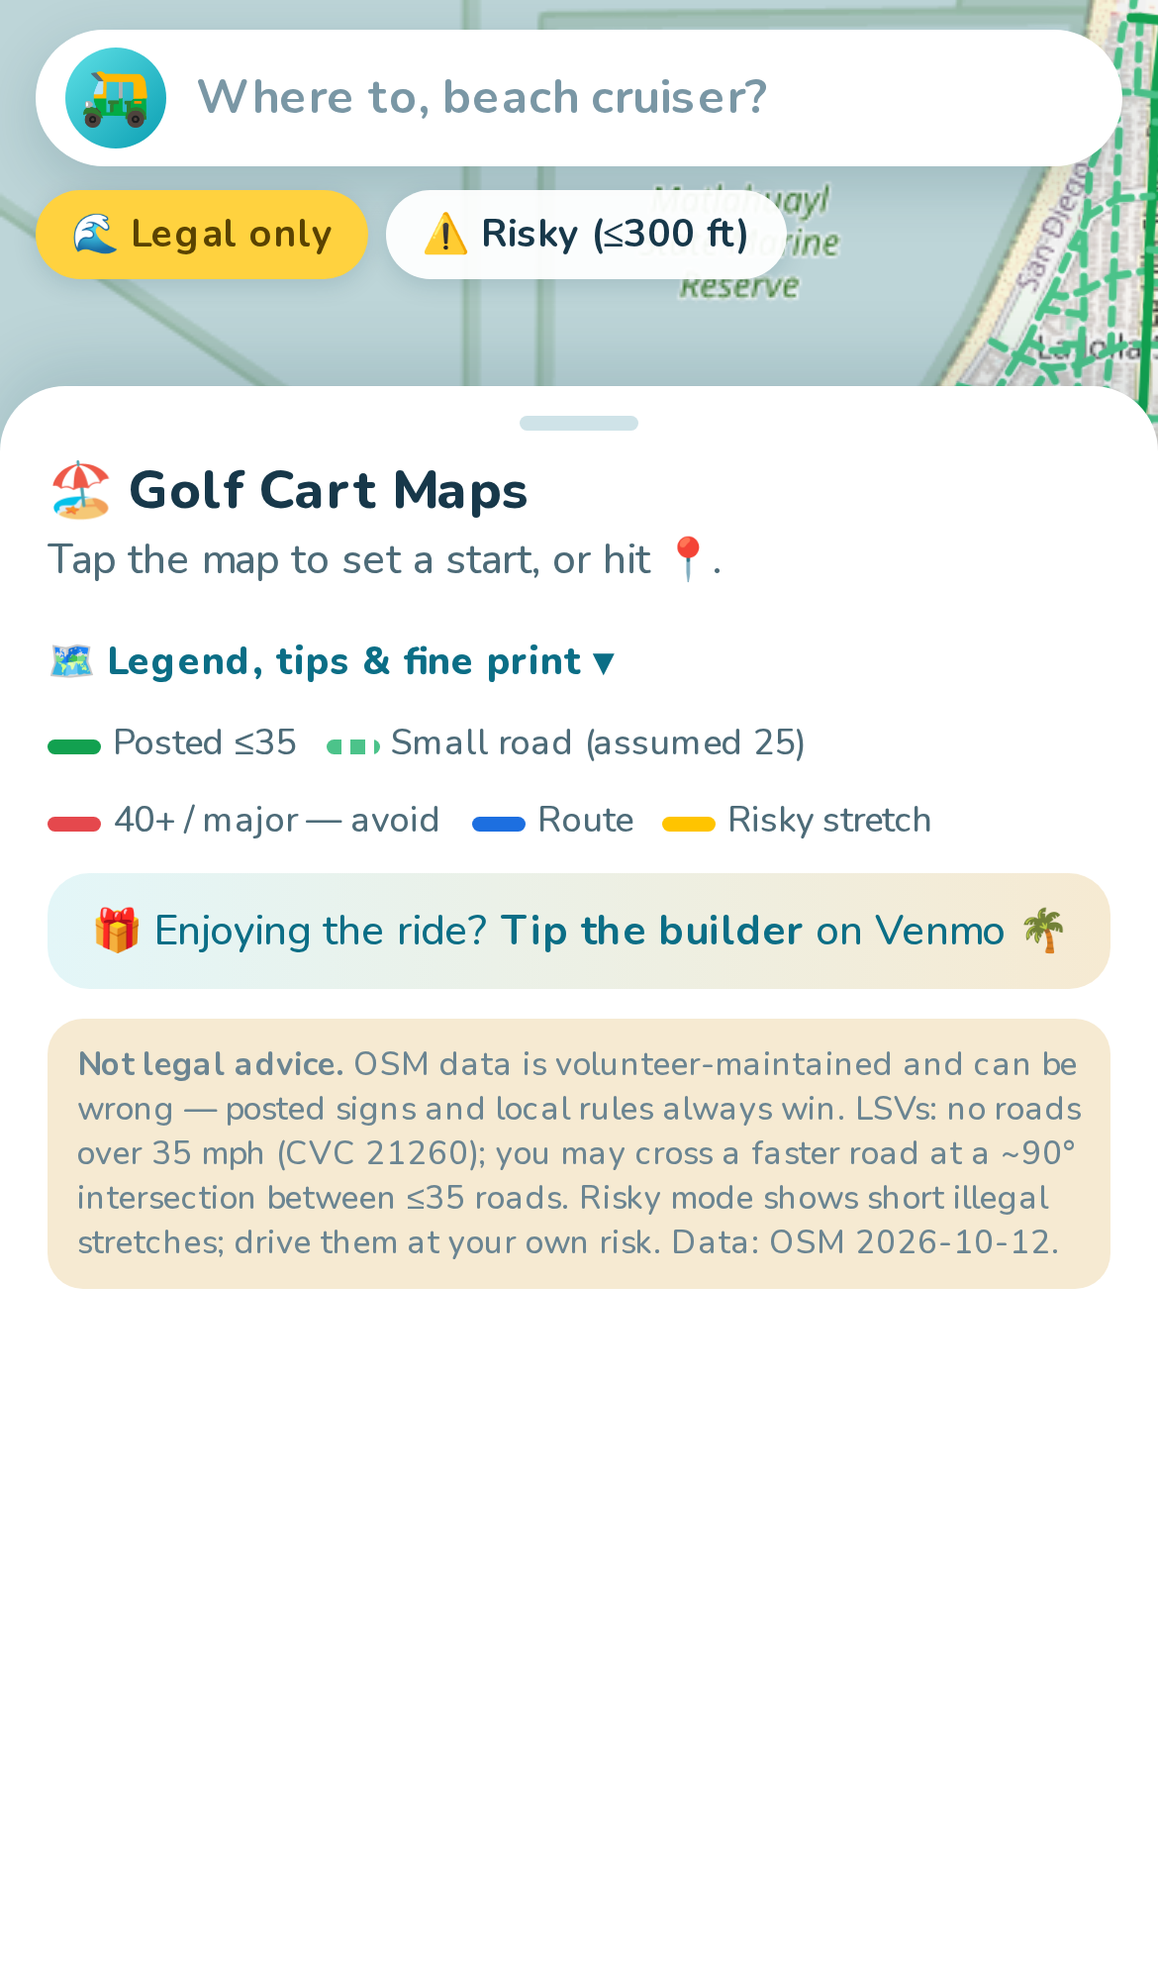
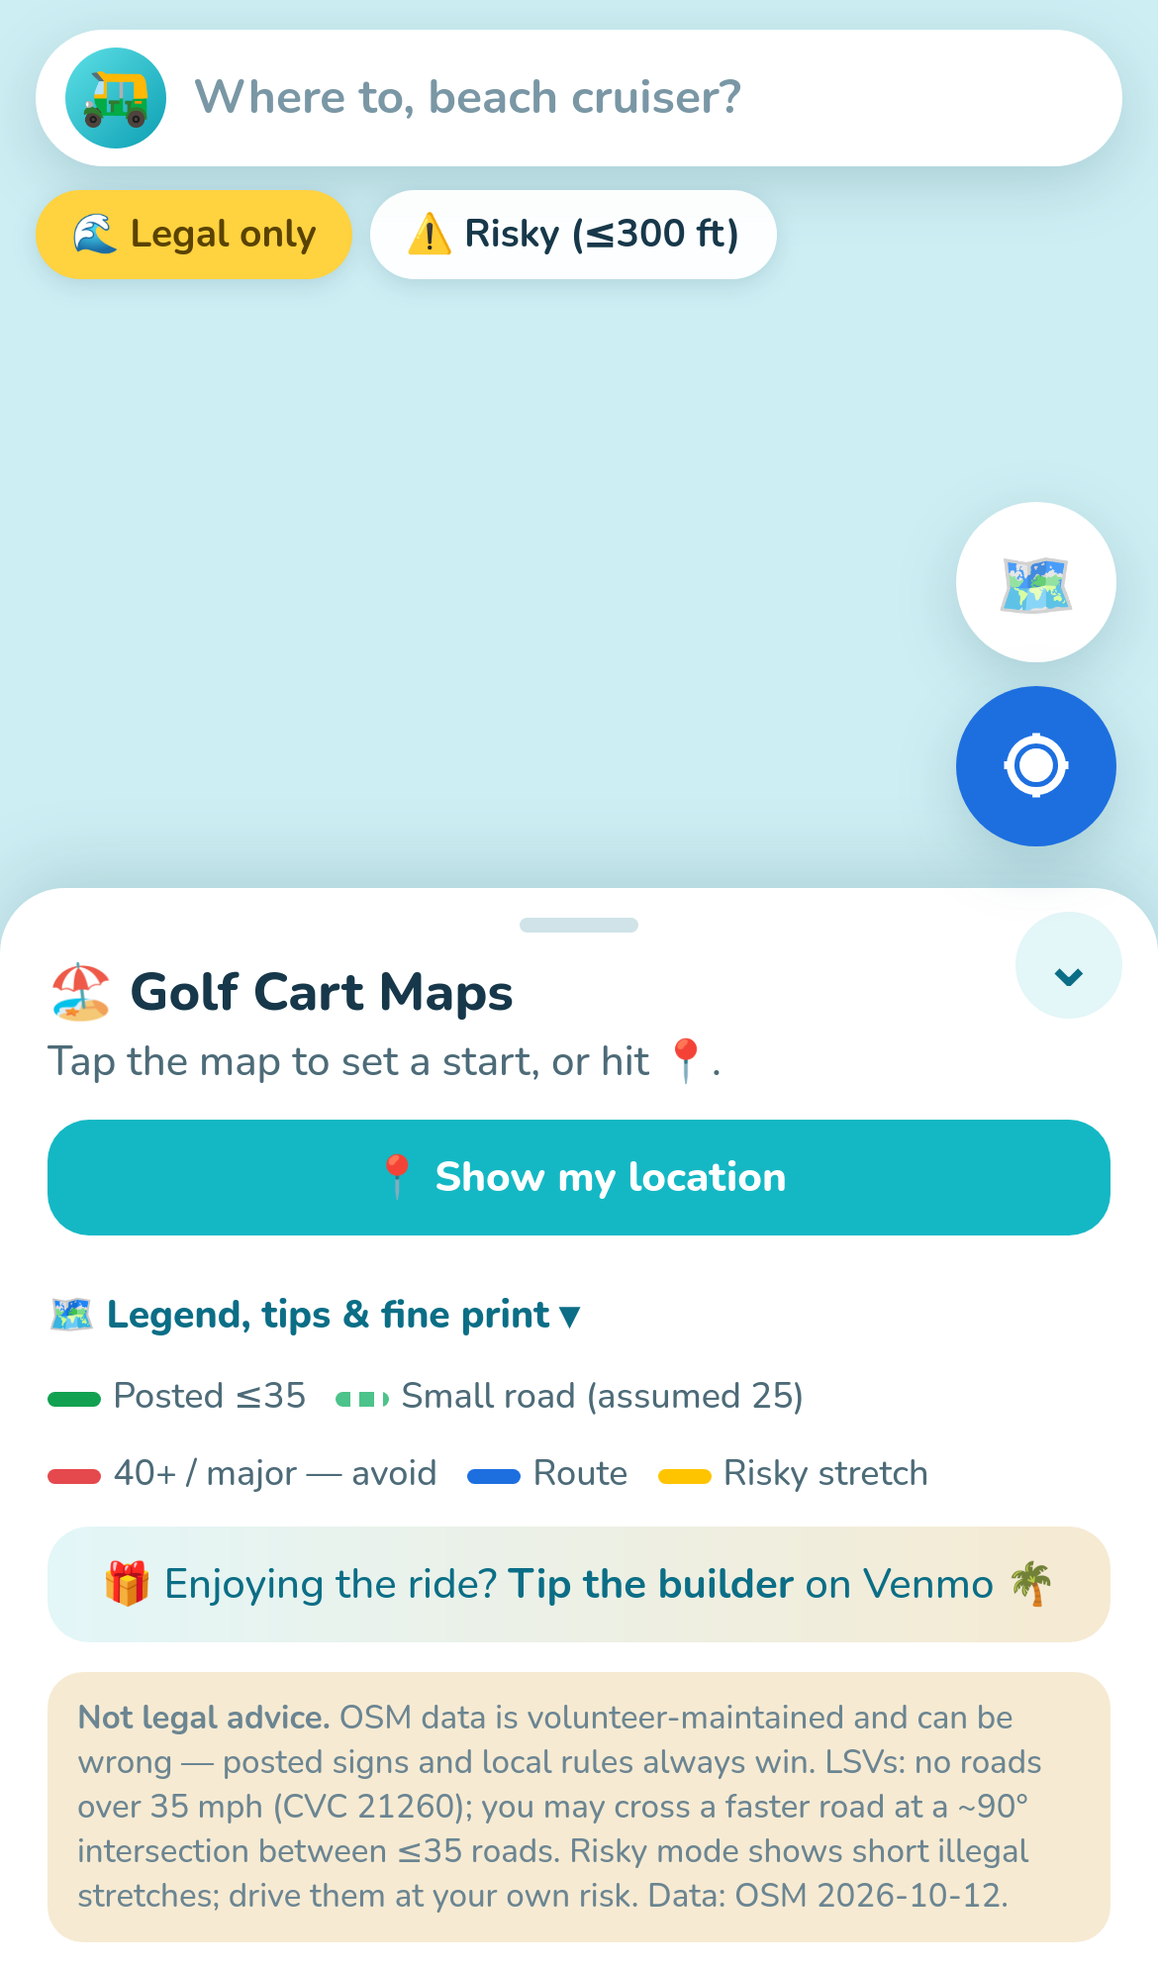
Fix bottom sheet on iOS: pointer-driven snapping, 55% max, chevron, tap map collapses; locate FAB + prompt

diff --git a/public/app.js b/public/app.js
@@ -55,7 +55,7 @@ function summarize(parts){let dist=0,stretches=[],cur=null,line=[];const legs=[]
 const ft=m=>Math.round(m*3.281)+' ft',mi=m=>(m/1609.34).toFixed(1)+' mi';
 async function route(){const P=0.06;await ensure(Math.min(start.lat,end.lat)-P,Math.min(start.lng,end.lng)-P,Math.max(start.lat,end.lat)+P,Math.max(start.lng,end.lng)+P);if(routeG)map.removeLayer(routeG);routeG=null;const [a,da]=nearest(start),[b,db]=nearest(end);
  const parts=a!=null&&b!=null?astar(a,b):null;$('acts').style.display='flex';
- if(!parts){$('title').innerHTML='🚫 No legal route';$('sub').innerHTML=risky?'Even allowing ≤300 ft stretches on faster roads, there’s no way through.':'Every way there uses a 40+ mph road. Try <b>⚠ Risky</b> mode to see short-stretch options.';$('steps').innerHTML='';setSnap('collapsed');setSnap('collapsed');return null}
+ if(!parts){$('title').innerHTML='🚫 No legal route';$('sub').innerHTML=risky?'Even allowing ≤300 ft stretches on faster roads, there’s no way through.':'Every way there uses a 40+ mph road. Try <b>⚠ Risky</b> mode to see short-stretch options.';$('steps').innerHTML='';setSnap('half');return null}
  const r=summarize(parts);routeG=L.layerGroup().addTo(map);
  const all=[];r.legs.forEach(l=>all.push(...l.p));
  L.polyline(all.map(p=>[p[1],p[0]]),{color:'#fff',weight:10,opacity:.9}).addTo(routeG);
@@ -67,7 +67,8 @@ async function route(){const P=0.06;await ensure(Math.min(start.lat,end.lat)-P,M
  $('steps').innerHTML=r.steps.filter(s=>s.d>15).map(s=>`<div class="st"><span class="badge ${s.f?'y':''}">${s.f?ft(s.d):mi(s.d)}</span><span>${s.f?'⚠ Risky: ':''}${s.n}${s.f&&s.sp&&s.sp!=99?` (${s.sp} mph)`:''}</span></div>`).join('');
  setSnap('half');window.lastRoute={mi:+(r.dist/1609.34).toFixed(2),min,risky:r.stretches.map(s=>({road:s.name,ft:Math.round(s.len*3.281)}))};return r}
 const pinIcon=(c,e)=>L.divIcon({className:'',html:`<div class="pin" style="background:${c}"><span>${e}</span></div>`,iconSize:[30,30],iconAnchor:[15,30]});
-function setPt(ll){if(!start||end){clearR();start=ll;mk.push(L.marker(ll,{icon:pinIcon('#14b8c4','🏠')}).addTo(map));$('title').innerHTML='📍 Start set';$('sub').textContent='Tap the map or search for where you’re headed.'}
+function setPt(ll){if(myLL&&(!start||end)){clearR();start=myLL;end=ll;mk.push(L.marker(ll,{icon:pinIcon('#ff7a59','🏖')}).addTo(map));route();return}
+ if(!start||end){clearR();start=ll;mk.push(L.marker(ll,{icon:pinIcon('#14b8c4','🏠')}).addTo(map));$('title').innerHTML='📍 Start set';$('sub').textContent='Tap the map or search for where you’re headed.'}
  else{end=ll;mk.push(L.marker(ll,{icon:pinIcon('#ff7a59','🏖')}).addTo(map));route()}}
 function clearR(){start=end=null;mk.forEach(m=>map.removeLayer(m));mk=[];if(routeG)map.removeLayer(routeG);routeG=null;$('steps').innerHTML='';$('acts').style.display='none';$('title').innerHTML='🏖 Golf Cart Maps';$('sub').textContent='Tap the map to set a start, or hit 📍.'}
 map.on('click',e=>setPt(e.latlng));$('clr').onclick=clearR;
@@ -75,9 +76,17 @@ $('swap').onclick=()=>{if(start&&end){const a=end,b=start;clearR();setPt(a);setP
 function setRisky(v){risky=v;$('cRisk').classList.toggle('on',v);$('cNorm').classList.toggle('on',!v);if(start&&end)route()}
 $('cNorm').onclick=()=>setRisky(false);$('cRisk').onclick=()=>setRisky(true);
 let legendOn=true;$('lay').onclick=()=>{legendOn=!legendOn;$('legend').style.display=$('disc').style.display=legendOn?'':'none'};
-let me;$('loc').onclick=()=>navigator.geolocation.getCurrentPosition(p=>{const ll=L.latLng(p.coords.latitude,p.coords.longitude);
- if(me)map.removeLayer(me);me=L.circleMarker(ll,{radius:8,color:'#fff',fillColor:'#1d6fe0',fillOpacity:1,weight:3}).addTo(map);map.setView(ll,16);clearR();start=ll;
- mk.push(L.marker(ll,{icon:pinIcon('#14b8c4','🛺')}).addTo(map));$('title').innerHTML='📍 Starting from you';$('sub').textContent='Tap or search a destination.'},e=>{$('sub').textContent='Location unavailable: '+e.message},{enableHighAccuracy:true});
+let me,meAcc,myLL=null,watching=false;
+function locate(){if(!navigator.geolocation){$('sub').textContent='Location not supported on this device.';return}
+ $('showloc').textContent='📍 Finding you…';let first=true;
+ const ok=p=>{myLL=L.latLng(p.coords.latitude,p.coords.longitude);const acc=p.coords.accuracy;
+  if(!me){meAcc=L.circle(myLL,{radius:acc,color:'#1d6fe0',weight:1,fillColor:'#1d6fe0',fillOpacity:.12,interactive:false}).addTo(map);me=L.circleMarker(myLL,{radius:8,color:'#fff',fillColor:'#1d6fe0',fillOpacity:1,weight:3,interactive:false}).addTo(map)}
+  else{me.setLatLng(myLL);meAcc.setLatLng(myLL).setRadius(acc)}
+  if(first){first=false;map.setView(myLL,16);$('showloc').style.display='none';if(!end){clearR()}$('title').innerHTML='📍 Starting from you';$('sub').textContent='Tap the map or search where you’re headed.';}};
+ const err=e=>{$('showloc').textContent='📍 Show my location';$('sub').textContent=e.code===1?'Location is blocked. Turn it on in Settings › Safari › Location.':'Couldn’t find you: '+e.message};
+ if(watching){navigator.geolocation.getCurrentPosition(p=>{first=true;ok(p)},err,{enableHighAccuracy:true});return}
+ watching=true;navigator.geolocation.watchPosition(ok,err,{enableHighAccuracy:true,maximumAge:5000})}
+$('loc').onclick=locate;$('showloc').onclick=locate;
 let tmr,lastQ=0;$('q').oninput=e=>{clearTimeout(tmr);const v=e.target.value.trim();if(v.length<4){$('sugg').style.display='none';return}
  tmr=setTimeout(async()=>{await new Promise(r=>setTimeout(r,Math.max(0,1100-(Date.now()-lastQ))));lastQ=Date.now();const b=D.meta.bbox;
   const j=await (await fetch(`https://nominatim.openstreetmap.org/search?format=json&limit=5&bounded=1&viewbox=${b[1]},${b[2]},${b[3]},${b[0]}&q=${encodeURIComponent(v)}`)).json();
@@ -87,26 +96,36 @@ let tmr,lastQ=0;$('q').oninput=e=>{clearTimeout(tmr);const v=e.target.value.trim
 window.testRoute=async(a,b,rk=false)=>{risky=rk;clearR();start=L.latLng(a);mk.push(L.marker(start,{icon:pinIcon('#14b8c4','🏠')}).addTo(map));end=L.latLng(b);mk.push(L.marker(end,{icon:pinIcon('#ff7a59','🏖')}).addTo(map));const r=await route();return r?window.lastRoute:null};
 fetch('data/index.json').then(r=>r.json()).then(async j=>{D={...j,segs:[],tileSet:new Set(j.meta.tiles)};$('dmeta').textContent=`Data: OSM ${j.meta.generated}.`;draw();clearR();await onMove();window.ready=true});
 
-// ---- bottom sheet: collapsed / half / full with touch drag ----
-const sheet=$('sheet'),shead=$('shead');let snap='collapsed';
-function sab(){return parseFloat(getComputedStyle(document.documentElement).getPropertyValue('--sab'))||0}
-function snaps(){const H=sheet.offsetHeight,vh=window.innerHeight;return{collapsed:H-(shead.offsetHeight+sab()+6),half:H-vh*0.45,full:0}}
-function place(y){sheet.style.transform=`translateY(${y}px)`;const vis=sheet.offsetHeight-y;$('loc').style.bottom=(vis+14)+'px';$('lay').style.bottom=(vis+74)+'px';const hide=vis>window.innerHeight*0.6;$('loc').style.opacity=$('lay').style.opacity=hide?0:1;$('loc').style.pointerEvents=$('lay').style.pointerEvents=hide?'none':''}
+// ---- bottom sheet: pointer-driven, translateY snapping ----
+const sheet=$('sheet'),shead=$('shead');let snap='full';
+function vh(){return window.innerHeight}
+function sizeSheet(){sheet.style.height=Math.round(vh()*0.55)+'px'}
+function snaps(){const H=sheet.offsetHeight;return{full:0,half:Math.max(0,H-vh()*0.36),collapsed:Math.max(0,H-shead.offsetHeight-6)}}
+let curY=0;
+function place(y){curY=y;sheet.style.transform=`translate3d(0,${y}px,0)`;const vis=sheet.offsetHeight-y;
+ $('loc').style.bottom=(vis+14)+'px';$('lay').style.bottom=(vis+76)+'px';$('chev').textContent=snap==='collapsed'?'⌃':'⌄'}
 function setSnap(n){snap=n;place(snaps()[n])}
 window.setSnap=setSnap;window.getSnap=()=>snap;
-let dy0=null,y0=0,moved=false,t0=0;
-const cur=()=>{const m=/translateY\(([-\d.]+)px/.exec(sheet.style.transform);return m?+m[1]:0};
-function ds(y){dy0=y;y0=cur();moved=false;t0=Date.now();sheet.classList.add('drag')}
-function dm(y){if(dy0==null)return;const d=y-dy0;if(Math.abs(d)>4)moved=true;const S=snaps();place(Math.min(S.collapsed,Math.max(0,y0+d)))}
-function de(y){if(dy0==null)return;sheet.classList.remove('drag');const d=y-dy0,S=snaps();dy0=null;
- if(!moved){setSnap(snap==='collapsed'?'half':'collapsed');return}
- const v=d/Math.max(1,Date.now()-t0),y1=cur();let best;
- best=Object.keys(S).reduce((a,b)=>Math.abs(S[a]-y1)<Math.abs(S[b]-y1)?a:b);
- if(best===snap&&Math.abs(v)>0.4)best=v>0?(snap==='full'?'half':'collapsed'):(snap==='collapsed'?'half':'full');setSnap(best)}
-shead.addEventListener('touchstart',e=>{e.preventDefault();ds(e.touches[0].clientY)},{passive:false});
-shead.addEventListener('touchmove',e=>{e.preventDefault();dm(e.touches[0].clientY)},{passive:false});
-shead.addEventListener('touchend',e=>{e.preventDefault();de(e.changedTouches[0].clientY)},{passive:false});
-shead.addEventListener('mousedown',e=>{ds(e.clientY);const mm=ev=>dm(ev.clientY),mu=ev=>{de(ev.clientY);removeEventListener('mousemove',mm);removeEventListener('mouseup',mu)};addEventListener('mousemove',mm);addEventListener('mouseup',mu)});
+const ORDER=['collapsed','half','full'];
+let drag=null;
+function ds(y,id){drag={y0:y,t0:Date.now(),start:curY,moved:false,id};sheet.classList.add('drag')}
+function dm(y){if(!drag)return;const d=y-drag.y0;if(Math.abs(d)>6)drag.moved=true;const S=snaps();place(Math.min(S.collapsed,Math.max(0,drag.start+d)))}
+function de(y){if(!drag)return;const d=y-drag.y0,v=d/Math.max(1,Date.now()-drag.t0),moved=drag.moved;drag=null;sheet.classList.remove('drag');
+ if(!moved){setSnap(ORDER[(ORDER.indexOf(snap)+1)%3]);return}
+ const S=snaps();let best=Object.keys(S).reduce((a,b)=>Math.abs(S[a]-curY)<Math.abs(S[b]-curY)?a:b);
+ if(best===snap&&Math.abs(v)>0.3){const i=ORDER.indexOf(snap)+(v>0?-1:1);best=ORDER[Math.max(0,Math.min(2,i))]}setSnap(best)}
+const isBtn=e=>e.target.closest&&e.target.closest('#chev');
+if(window.PointerEvent){
+ shead.addEventListener('pointerdown',e=>{if(isBtn(e))return;e.preventDefault();try{shead.setPointerCapture(e.pointerId)}catch(_){}ds(e.clientY,e.pointerId)},{passive:false});
+ shead.addEventListener('pointermove',e=>{if(drag){e.preventDefault();dm(e.clientY)}},{passive:false});
+ shead.addEventListener('pointerup',e=>{if(drag){e.preventDefault();de(e.clientY)}},{passive:false});
+ shead.addEventListener('pointercancel',e=>{if(drag)de(e.clientY)});
+}
+// touch fallback: just block native scroll/bounce on header
+shead.addEventListener('touchstart',e=>{if(!isBtn(e))e.preventDefault()},{passive:false});
+shead.addEventListener('touchmove',e=>e.preventDefault(),{passive:false});
+$('chev').addEventListener('click',e=>{e.stopPropagation();setSnap(snap==='collapsed'?'half':'collapsed')});
 L.DomEvent.disableClickPropagation(sheet);L.DomEvent.disableScrollPropagation(sheet);
-addEventListener('resize',()=>setSnap(snap));
-requestAnimationFrame(()=>{sheet.style.transition='none';setSnap('full');requestAnimationFrame(()=>sheet.style.transition='')});
+map.on('click',()=>{if(!routeG&&snap!=='collapsed')setSnap('collapsed')});
+addEventListener('resize',()=>{sizeSheet();setSnap(snap)});
+sizeSheet();sheet.style.transition='none';setSnap('full');requestAnimationFrame(()=>requestAnimationFrame(()=>sheet.style.transition=''));

diff --git a/public/index.html b/public/index.html
@@ -20,10 +20,10 @@
 #chips{display:flex;gap:6px;margin-top:8px}
 .chip{background:#fffffff0;border-radius:18px;padding:6px 12px;font:700 13px Nunito;box-shadow:0 2px 8px rgba(11,60,80,.15);border:0;color:var(--ink)}
 .chip.on{background:#ffd23f;color:#5a4300}
-.fab{position:absolute;z-index:1000;right:12px;width:50px;height:50px;border-radius:50%;background:#fff;border:0;box-shadow:var(--sh);font-size:21px;display:grid;place-items:center}
-#loc,#lay{transition:bottom .28s}
-#sheet{position:absolute;z-index:1001;left:0;right:0;bottom:0;height:calc(100vh - 140px);height:calc(100dvh - 130px - var(--sat));background:#fff;border-radius:22px 22px 0 0;box-shadow:0 -6px 24px rgba(11,60,80,.16);display:flex;flex-direction:column;transition:transform .28s cubic-bezier(.2,.8,.2,1);will-change:transform}
-#sheet.drag{transition:none}#shead{touch-action:none;padding:8px 16px 6px;cursor:grab;flex:none}#sbody{flex:1;overflow:auto;padding:0 16px calc(var(--sab) + 20px);-webkit-overflow-scrolling:touch}
+.fab{position:absolute;z-index:1002;right:14px;width:54px;height:54px;border-radius:50%;background:#fff;border:0;box-shadow:var(--sh);font-size:22px;display:grid;place-items:center}#loc{background:#1d6fe0;color:#fff}#loc svg{width:26px;height:26px}
+#loc,#lay{transition:bottom .28s}#sheet.drag~#loc{transition:none}
+#sheet{position:absolute;z-index:1001;left:0;right:0;bottom:0;height:55vh;background:#fff;border-radius:22px 22px 0 0;box-shadow:0 -6px 24px rgba(11,60,80,.16);display:flex;flex-direction:column;transition:transform .28s cubic-bezier(.2,.8,.2,1);will-change:transform}
+#sheet.drag{transition:none}#shead{touch-action:none;user-select:none;-webkit-user-select:none;position:relative;padding:8px 16px 6px;cursor:grab;flex:none}#sbody{flex:1;overflow:auto;padding:0 16px calc(var(--sab) + 20px);-webkit-overflow-scrolling:touch}
 details{margin-top:10px}summary{font:800 13px Nunito;color:var(--deep);list-style:none;cursor:pointer}summary::-webkit-details-marker{display:none}
 #sheet .grab{width:40px;height:5px;border-radius:3px;background:#cfe3e8;margin:2px auto 8px}
 #title{font:800 18px Nunito;display:flex;align-items:center;gap:8px}
@@ -39,14 +39,16 @@ details{margin-top:10px}summary{font:800 13px Nunito;color:var(--deep);list-styl
 .pin{width:30px;height:30px;border-radius:50% 50% 50% 0;transform:rotate(-45deg);border:3px solid #fff;box-shadow:0 3px 8px #0004}
 .pin span{display:block;transform:rotate(45deg);text-align:center;line-height:24px;font-size:14px}
 #tip{display:block;margin-top:10px;text-align:center;text-decoration:none;color:#0b6e86;background:linear-gradient(90deg,#e3f6f8,#f6ead2);border-radius:14px;padding:10px;font-size:14px}
+#chev{position:absolute;right:12px;top:8px;width:36px;height:36px;border-radius:50%;border:0;background:#e3f6f8;color:#0b6e86;font:800 20px Nunito;line-height:36px;padding:0}
+#showloc{position:relative}
 </style></head><body>
 <div id="map"></div>
 <div id="top"><div id="bar"><div id="logo">🛺</div><input id="q" placeholder="Where to, beach cruiser?" autocomplete="off"></div>
 <div id="sugg"></div>
 <div id="chips"><button class="chip on" id="cNorm">🌊 Legal only</button><button class="chip" id="cRisk">⚠ Risky (≤300 ft)</button></div></div>
-<button class="fab" id="lay" title="Legend">🗺</button><button class="fab" id="loc" title="Locate me">📍</button>
-<div id="sheet"><div id="shead"><div class="grab"></div>
-<div id="title">🏖 Golf Cart Maps</div><div id="sub">Loading roads…</div></div><div id="sbody">
+<button class="fab" id="lay" title="Legend">🗺</button><button class="fab" id="loc" title="Show my location" aria-label="Show my location"><svg viewBox="0 0 24 24" fill="none" stroke="#fff" stroke-width="2.4"><circle cx="12" cy="12" r="4" fill="#fff"/><path d="M12 2v3M12 19v3M2 12h3M19 12h3"/><circle cx="12" cy="12" r="8"/></svg></button>
+<div id="sheet"><div id="shead"><div class="grab"></div><button id="chev" aria-label="Collapse or expand">⌄</button>
+<div id="title">🏖 Golf Cart Maps</div><div id="sub">Loading roads…</div></div><button class="btn" id="showloc" style="margin:4px 16px 8px;flex:none">📍 Show my location</button><div id="sbody">
 <div id="steps"></div>
 <div class="btnrow" id="acts" style="display:none"><button class="btn alt" id="clr">Clear</button><button class="btn" id="swap">⇅ Swap</button></div>
 <details id="more" open><summary>🗺 Legend, tips & fine print ▾</summary><div id="legend"><span><i class="sw" style="background:#12a150"></i>Posted ≤35</span><span><i class="sw" style="background:repeating-linear-gradient(90deg,#4cc38a 0 5px,transparent 5px 8px)"></i>Small road (assumed 25)</span><span><i class="sw" style="background:#e5484d"></i>40+ / major — avoid</span><span><i class="sw" style="background:#1d6fe0"></i>Route</span><span><i class="sw" style="background:#ffc400"></i>Risky stretch</span></div>

diff --git a/public/sw.js b/public/sw.js
@@ -1,2 +1,2 @@
-const C='gcm-v5';self.addEventListener('install',e=>self.skipWaiting());
+const C='gcm-v7';self.addEventListener('install',e=>self.skipWaiting());
 self.addEventListener('fetch',e=>{if(e.request.method!=='GET')return;e.respondWith(fetch(e.request).then(r=>{const c=r.clone();caches.open(C).then(x=>x.put(e.request,c));return r}).catch(()=>caches.match(e.request)))});

diff --git a/scripts/test_sheet.py b/scripts/test_sheet.py
@@ -1,0 +1,21 @@
+from playwright.sync_api import sync_playwright
+with sync_playwright() as p:
+    b=p.webkit.launch();ctx=b.new_context(**p.devices["iPhone 13"]);pg=ctx.new_page()
+    pg.goto("http://localhost:8765/");pg.wait_for_function("window.ready===true",timeout=120000);pg.wait_for_timeout(800)
+    vis=lambda:pg.evaluate("Math.round((innerHeight-document.getElementById('sheet').getBoundingClientRect().top)/innerHeight*100)")
+    print("load",pg.evaluate("getSnap()"),vis(),"% visible")
+    pg.screenshot(path="/workspace/golfcart-maps/screenshot-open.png")
+    def drag(dy):
+        r=pg.evaluate("(()=>{const r=document.getElementById('shead').getBoundingClientRect();return [r.left+100,r.top+30]})()")
+        x,y=r
+        js=f"""(async()=>{{const el=document.getElementById('shead');const mk=(t,y)=>new PointerEvent(t,{{pointerId:1,pointerType:'touch',clientX:{x},clientY:y,bubbles:true,cancelable:true,isPrimary:true}});
+        el.dispatchEvent(mk('pointerdown',{y}));for(let i=1;i<=10;i++){{await new Promise(r=>setTimeout(r,16));el.dispatchEvent(mk('pointermove',{y}+{dy}*i/10))}}el.dispatchEvent(mk('pointerup',{y}+{dy}))}})()"""
+        pg.evaluate(js);pg.wait_for_timeout(500)
+    drag(400);print("swipe down",pg.evaluate("getSnap()"),vis())
+    drag(-150);print("swipe up",pg.evaluate("getSnap()"),vis())
+    pg.tap("#chev");pg.wait_for_timeout(400);print("chevron",pg.evaluate("getSnap()"),vis())
+    pg.tap(".grab");pg.wait_for_timeout(400);print("tap handle",pg.evaluate("getSnap()"),vis())
+    pg.tap("#map",position={"x":200,"y":200});pg.wait_for_timeout(400);print("tap map",pg.evaluate("getSnap()"),vis())
+    print(pg.evaluate("testRoute([32.8506,-117.2717],[32.8305,-117.2805])"),"after route",pg.evaluate("getSnap()"),vis())
+    pg.evaluate("map.fitBounds([[32.826,-117.29],[32.853,-117.262]]);0");pg.wait_for_timeout(4000)
+    pg.screenshot(path="/workspace/golfcart-maps/screenshot.png");b.close()

diff --git a/scripts/test.py b/scripts/test.py
@@ -21,3 +21,11 @@ with sync_playwright() as p:
     pg.evaluate("map.fitBounds([[32.826,-117.29],[32.853,-117.262]]);0");pg.wait_for_timeout(5000)
     print("route snap",pg.evaluate("getSnap()"))
     pg.screenshot(path="/workspace/golfcart-maps/screenshot.png");b.close()
+# geolocation test
+with sync_playwright() as p:
+    b=p.chromium.launch();ctx=b.new_context(**p.devices["iPhone 13"],geolocation={"latitude":32.8471,"longitude":-117.2742},permissions=["geolocation"]);pg=ctx.new_page()
+    pg.goto("http://localhost:8765/");pg.wait_for_function("window.ready===true",timeout=120000);pg.wait_for_timeout(500)
+    print("loc fab visible",pg.is_visible("#loc"),"prompt",pg.is_visible("#showloc"))
+    pg.click("#showloc");pg.wait_for_timeout(2500)
+    pg.mouse.click(150,250);pg.wait_for_timeout(2500);print("title",pg.inner_text("#title"))
+    pg.screenshot(path="/workspace/golfcart-maps/screenshot-locate.png");b.close()

diff --git a/scripts/build_data.py b/scripts/build_data.py
@@ -6,7 +6,7 @@ import json, re, time, urllib.request, urllib.parse, gzip, os, math
 S, W, N, E = 32.53, -117.42, 33.30, -116.95
 TILES_LAT, TILES_LON = 6, 3
 HW = "motorway|motorway_link|trunk|trunk_link|primary|primary_link|secondary|secondary_link|tertiary|tertiary_link|unclassified|residential|living_street|service"
-EP = ["https://overpass-api.de/api/interpreter", "https://overpass.kumi.systems/api/interpreter"]
+EP = ["https://overpass.private.coffee/api/interpreter", "https://overpass-api.de/api/interpreter", "https://maps.mail.ru/osm/tools/overpass/api/interpreter", "https://overpass.kumi.systems/api/interpreter"]
 UA = "GolfCartMaps/1.0 (personal project)"
 OUT = os.path.join(os.path.dirname(__file__), "..", "public", "data")
 CACHE = os.path.join(os.path.dirname(__file__), "..", "cache")
